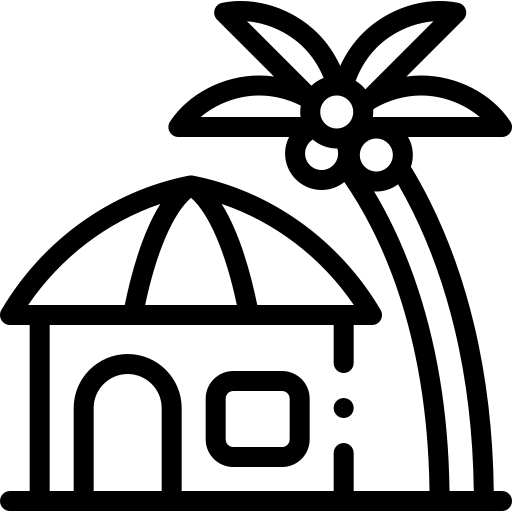
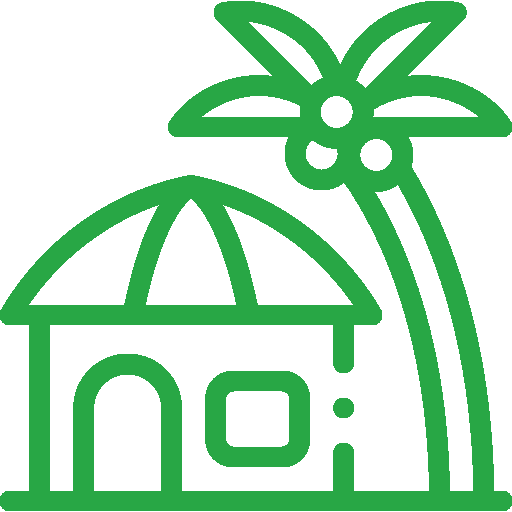
Add files via upload

diff --git a/booking.html b/booking.html
@@ -9,6 +9,7 @@
     <link href="https://cdn.jsdelivr.net/npm/bootstrap@5.0.2/dist/css/bootstrap.min.css" rel="stylesheet"
       integrity="sha384-EVSTQN3/azprG1Anm3QDgpJLIm9Nao0Yz1ztcQTwFspd3yD65VohhpuuCOmLASjC" crossorigin="anonymous">
     <link rel="icon" href="image/resort.png" type="image/png">
+    <link rel="stylesheet" href="RoomCard.css">
 </head>
 <body style="background-color:antiquewhite;">
   <div class="container-fluid">
@@ -34,10 +35,6 @@
                   <a class="nav-link" href="#">จองห้องพัก</a>
               </li>
           </ul>
-          <form class="d-flex">
-              <input class="form-control me-2" type="text" placeholder="Search">
-              <button class="btn btn-warning" type="button">ค้นหา</button>
-          </form>
       </div>
   </div>
 </nav>
@@ -58,7 +55,7 @@
       <div class="carousel-item active">
         <img src="image/R1.jpg" alt="R1" class="d-block" style="height: 500px; width: 100%;">
         <div class="carousel-caption">
-          <h3>รีสอร์ท</h3>
+          <h3>รีสอร์ทซันเด</h3>
           <p>หาดทุ่งวัวแล่น ชุมพร</p>
         </div>  
       </div>
@@ -133,7 +130,9 @@
           <div class="room-option">
             <input type="radio" id="roomStandard" name="room" value="Standard" required>Standard
             <label for="roomStandard">
+              <div class="room-card">
               <img src="image/Standard.jpg" alt="Standard Room" style="width: 100%; height: auto;">
+              </div>
             </label>
           </div>
         </div>
@@ -142,8 +141,9 @@
           <div class="room-option">
             <input type="radio" id="roomDeluxe" name="room" value="Deluxe" required>Deluxe
             <label for="roomDeluxe">
+              <div class="room-card">
               <img src="image/Deluxe.png" alt="Deluxe Room" style="width: 100%; height: auto;">
-              
+              </div>
             </label>
           </div>
         </div>
@@ -151,8 +151,10 @@
         <div class="col-12 col-md-4">
           <div class="room-option">
             <input type="radio" id="roomSuite" name="room" value="Suite" required>Suite
+            <div class="room-card">
             <label for="roomSuite">
               <img src="image/Suite.jpg" alt="Suite Room" style="width: 100%; height: auto;">
+            </div>
             </label>
           </div>
         </div>
@@ -173,7 +175,7 @@
       <div class="invalid-feedback">กรุณากรอกวันที่ออก</div>
     </div>
 
-    <button type="submit" class="btn btn-primary">ยืนยันการจอง</button>
+    <div class="col-12 text-center"><button type="submit" class="btn btn-warning">ยืนยันการจอง</button></div>
     </div>
   </form>
 </div>

diff --git a/index.html b/index.html
@@ -34,10 +34,6 @@
                   <a class="nav-link" href="booking.html">จองห้องพัก</a>
               </li>
           </ul>
-          <form class="d-flex">
-              <input class="form-control me-2" type="text" placeholder="Search">
-              <button class="btn btn-warning" type="button">ค้นหา</button>
-          </form>
       </div>
   </div>
 </nav>
@@ -58,7 +54,7 @@
       <div class="carousel-item active">
         <img src="image/R1.jpg" alt="R1" class="d-block" style="height: 500px; width: 100%;">
         <div class="carousel-caption">
-          <h3>รีสอร์ท</h3>
+          <h3>รีสอร์ทซันเด</h3>
           <p>หาดทุ่งวัวแล่น ชุมพร</p>
         </div>  
       </div>
@@ -106,10 +102,10 @@
     <p>การบริการพิเศษ: สปา นวดผ่อนคลาย และทัวร์ท้องถิ่น</p>
 </div>
 <!--card-->
-<h2 class="text-center text-success"">กิจกรรม</h2>
+<h2 class="text-center text-success">กิจกรรม</h2>
 <div class="row justify-content-center">
 <div class="col-xl-3 mb-4">
-<div class="card border-primary" style="width:300px">
+<div class="card border-success" style="width:300px">
     <img class="card-img-top" src="image/Buffet.jpg" alt="Buffet image" style="width:100%">
     <div class="card-body">
       <h4 class="card-title">Beach Buffet</h4>
@@ -119,7 +115,7 @@
   </div>
 </div>
 <div class="col-xl-3 mb-4">
-<div class="card border-primary" style="width:300px">
+<div class="card border-success" style="width:300px">
     <img class="card-img-top" src="image/Volley.jpg" alt="Volley image" style="width:100%">
     <div class="card-body">
       <h4 class="card-title">Volleyball</h4>
@@ -132,7 +128,7 @@
 
 <div class="row justify-content-center">
 <div class="col-xl-3 mb-4">
-<div class="card border-primary" style="width:300px">
+<div class="card border-success" style="width:300px">
     <img class="card-img-top" src="image/Tug.jpg" alt="Tug image" style="width:100%">
     <div class="card-body">
       <h4 class="card-title">Tug of Wars</h4>
@@ -142,7 +138,7 @@
   </div>
 </div>
 <div class="col-xl-3 mb-4">
-<div class="card border-primary" style="width:300px">
+<div class="card border-success" style="width:300px">
     <img class="card-img-top" src="image/Diving.jpg" alt="Diving image" style="width:100%">
     <div class="card-body">
       <h4 class="card-title">Diving</h4>

diff --git a/room.html b/room.html
@@ -34,10 +34,6 @@
                   <a class="nav-link" href="booking.html">จองห้องพัก</a>
               </li>
           </ul>
-          <form class="d-flex">
-              <input class="form-control me-2" type="text" placeholder="Search">
-              <button class="btn btn-warning" type="button">ค้นหา</button>
-          </form>
       </div>
   </div>
 </nav>
@@ -58,7 +54,7 @@
       <div class="carousel-item active">
         <img src="image/R1.jpg" alt="R1" class="d-block" style="height: 500px; width: 100%;">
         <div class="carousel-caption">
-          <h3>รีสอร์ท</h3>
+          <h3>รีสอร์ทซันเด</h3>
           <p>หาดทุ่งวัวแล่น ชุมพร</p>
         </div>  
       </div>
@@ -95,8 +91,8 @@
 </div>
 <!--card-->
 <div class="row justify-content-center">
-<div class="col-xl-3 ">
-<div class="card border-primary" style="width:300px">
+<div class="col-xl-3 mb-4">
+<div class="card border-success" style="width:300px">
     <img class="card-img-top" src="image/Standard.jpg" alt="Standard image" style="width:100%">
     <div class="card-body">
       <h4 class="card-title">Standard Bedroom</h4>
@@ -107,8 +103,8 @@
     </div>
   </div>
 </div>
-<div class="col-xl-3 ">
-<div class="card border-primary" style="width:300px">
+<div class="col-xl-3 mb-4">
+<div class="card border-success" style="width:300px">
     <img class="card-img-top" src="image/Deluxe.png" alt="Deluxe image" style="width:100%">
     <div class="card-body">
       <h4 class="card-title">Deluxe Bedroom</h4>
@@ -119,8 +115,8 @@
     </div>
   </div>
 </div>
-<div class="col-xl-3 ">
-<div class="card border-primary" style="width:300px">
+<div class="col-xl-3 mb-4">
+<div class="card border-success" style="width:300px">
     <img class="card-img-top" src="image/Suite.jpg" alt="Suite image" style="width:100%">
     <div class="card-body">
       <h4 class="card-title">Suite Bedroom</h4>

diff --git a/RoomCard.css b/RoomCard.css
@@ -1,0 +1,23 @@
+.room-card {
+    position: relative;
+    border: 2px solid #ddd;
+    border-radius: 12px; /* Slightly more rounded corners */
+    overflow: hidden;
+    transition: transform 1s cubic-bezier(0.25, 0.8, 0.25, 1), box-shadow 0.5s ease-in-out; /* Increased time for a slower effect */
+  }
+  
+  .room-card:hover {
+    transform: scale(1.05); /* Slightly larger zoom for a smoother effect */
+    box-shadow: 0 12px 24px rgba(0, 0, 0, 0.1); /* Softer and spread-out shadow */
+  }
+  
+  .room-image {
+    width: 100%;
+    height: auto;
+    display: block;
+    transition: transform 1s cubic-bezier(0.25, 0.8, 0.25, 1); /* Slower transition for image zoom */
+  }
+  
+  .room-card:hover .room-image {
+    transform: scale(1.1); /* Slightly larger zoom on hover for a smoother look */
+  }
